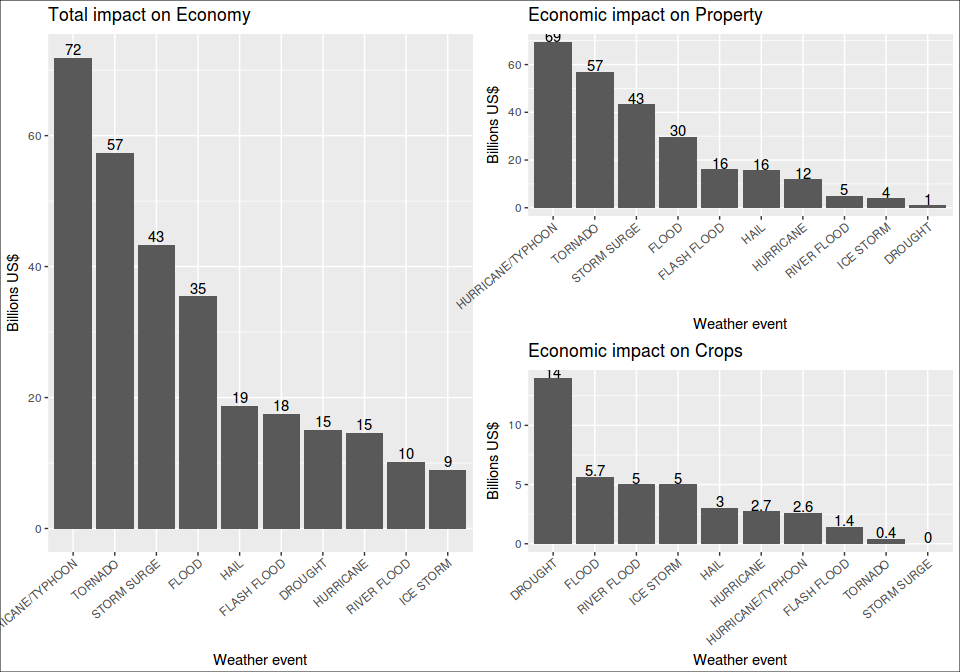
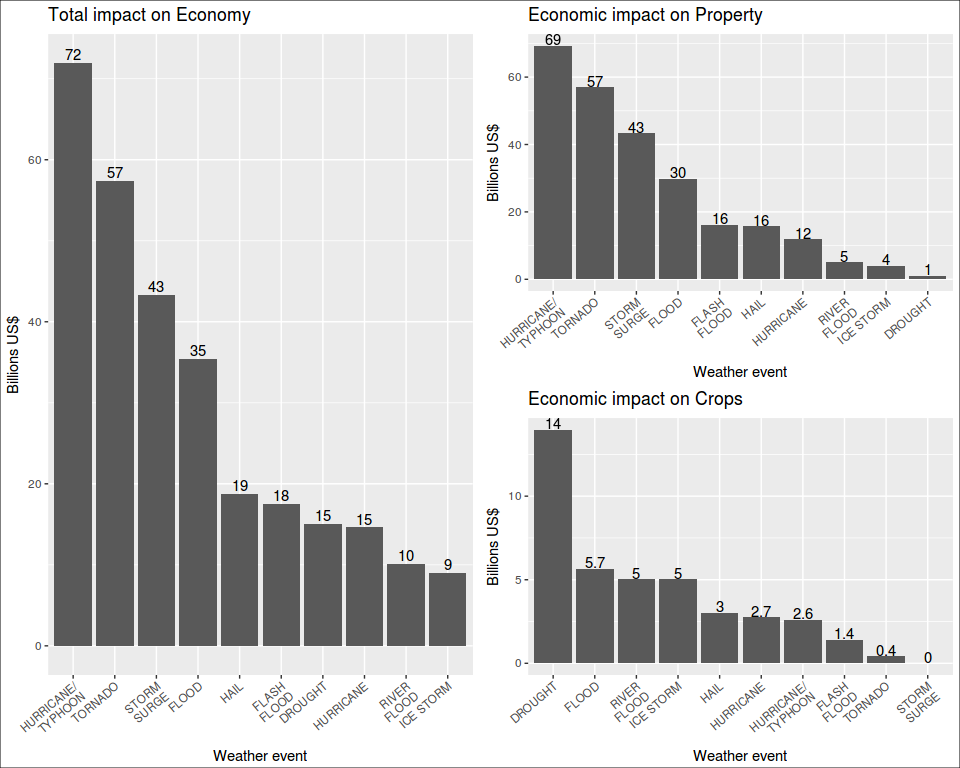
slect 12 events in 1st question so we can see hurricane/typhon in injuries.

diff --git a/inst/notebooks/01-main.md b/inst/notebooks/01-main.md
@@ -427,12 +427,14 @@ byEvent.top <- byEvent.0[1:10, ]
 p1 <- ggplot(byEvent.top, aes(x = reorder(EVTYPE, -fatal.sum), y = fatal.sum)) +
   geom_bar(stat = "identity") +
   xlab("Event Type") + ylab("Fatalities") +
-  geom_text(aes(label=fatal.sum, vjust = -0.25))
+  geom_text(aes(label=fatal.sum, vjust = -0.25)) +  
+  scale_x_discrete(labels = function(EVTYPE) str_wrap(EVTYPE, width = 10))
 
 p2 <- ggplot(byEvent.top, aes(x = reorder(EVTYPE, -injur.sum), y = injur.sum)) +
   geom_bar(stat = "identity") +
   xlab("Event Type") + ylab("Injuries") +
-  geom_text(aes(label=injur.sum, vjust = -0.25))
+  geom_text(aes(label=injur.sum, vjust = -0.25)) +  
+  scale_x_discrete(labels = function(EVTYPE) str_wrap(EVTYPE, width = 10))
 
 gridExtra::grid.arrange(p1, p2)
 grid.rect(gp=gpar(fill=NA))
@@ -580,7 +582,8 @@ r1 <- ggplot(byDamage.mm.top5, aes(x = reorder(EVTYPE, -totaldmg.bi), y = totald
   labs(y = "Billions US$", x = "Weather event") +
   ggtitle("Total impact on Economy") +
   geom_text(aes(label=round(totaldmg.bi, 0), vjust = -0.25)) +
-  theme(axis.text.x = element_text(angle = 40, hjust = 1))
+  theme(axis.text.x = element_text(angle = 40, hjust = 1)) + 
+  scale_x_discrete(labels = function(EVTYPE) str_wrap(EVTYPE, width = 10))
 
 propdmg.bi <- byDamage.mm.top5$propdmg.m/1000
 
@@ -589,7 +592,8 @@ r2 <- ggplot(byDamage.mm.top5, aes(x = reorder(EVTYPE, -propdmg.bi), y = propdmg
   labs(y = "Billions US$", x = "Weather event") +
   ggtitle("Economic impact on Property") +
   geom_text(aes(label=round(propdmg.bi, 0), vjust = -0.05)) + 
-theme(axis.text.x = element_text(angle = 40, hjust = 1))
+  theme(axis.text.x = element_text(angle = 40, hjust = 1)) +
+  scale_x_discrete(labels = function(EVTYPE) str_wrap(EVTYPE, width = 10))
 
 cropdmg.bi <- byDamage.mm.top5$cropdmg.m/1000
 
@@ -598,7 +602,8 @@ r3 <- ggplot(byDamage.mm.top5, aes(x = reorder(EVTYPE, -cropdmg.bi), y = cropdmg
   labs(y = "Billions US$", x = "Weather event") +
   ggtitle("Economic impact on Crops") +
   geom_text(aes(label=round(cropdmg.bi, 1), vjust = -0.05)) +
-  theme(axis.text.x = element_text(angle = 40, hjust = 1))
+  theme(axis.text.x = element_text(angle = 40, hjust = 1)) +
+  scale_x_discrete(labels = function(EVTYPE) str_wrap(EVTYPE, width = 10))
 
 gridExtra::grid.arrange(r1, arrangeGrob(r2, r3), ncol=2)
 grid.rect(gp=gpar(fill=NA))
